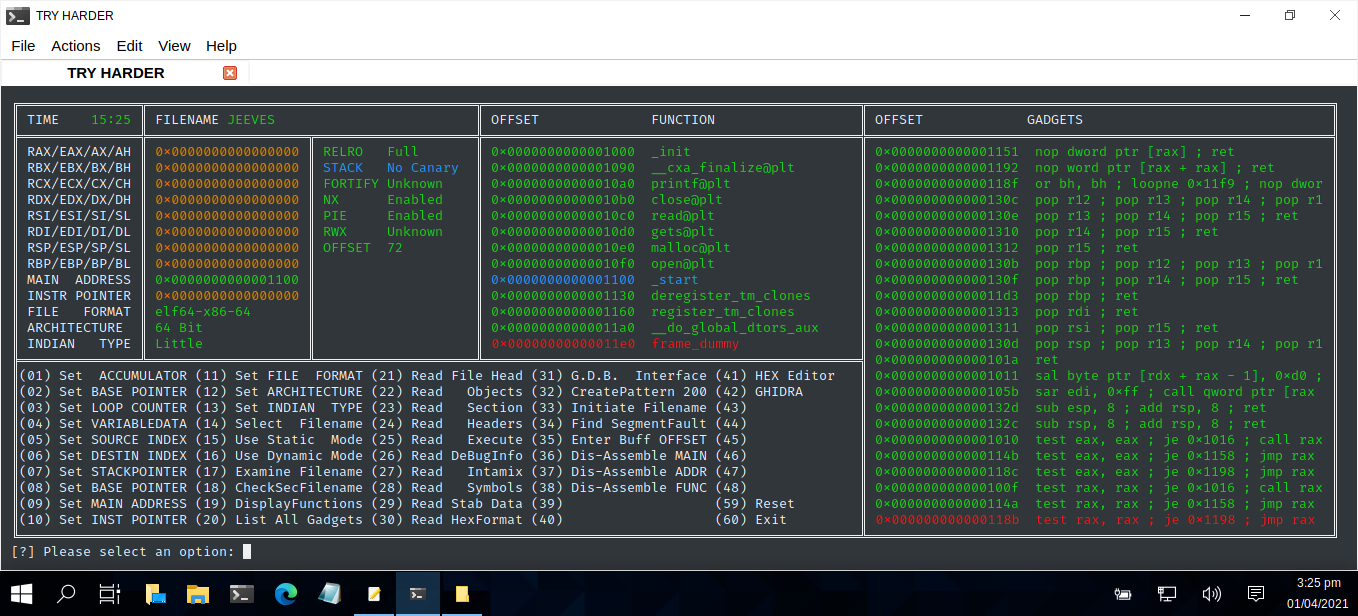
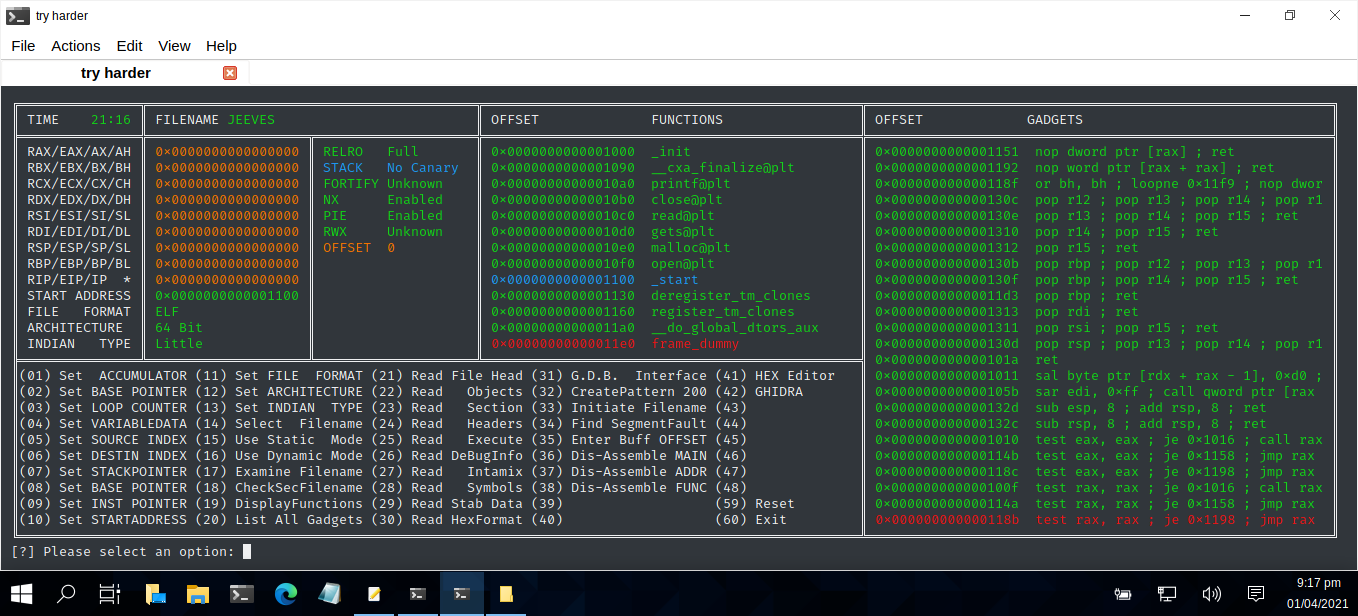
Try harder

diff --git a/BinMaster.py b/BinMaster.py
@@ -17,18 +17,10 @@
 import os
 import sys
 import time
-#import getopt
-#import base64
-#import string
-#import random
-#import socket
-#import hashlib
 import os.path
 import sqlite3
-#import binascii
 import pyfiglet
 import datetime
-#import requests
 import linecache
 
 from termcolor import colored
@@ -195,7 +187,7 @@ def dispMenu():
       print(colored(FIL.upper(),colour7), end=' ')
    else:
       print(colored(FIL.upper(),colour6), end=' ')      
-   print(" " + '\u2551' + (" ")*1 + colored("OFFSET",colour5) + (" ")*14 + colored("FUNCTION",colour5) + (" ")*18 + '\u2551' + (" ")*1 + colored("OFFSET",colour5) + " "*13 + colored("GADGETS",colour5) + (" ")*31 + '\u2551') 
+   print(" " + '\u2551' + (" ")*1 + colored("OFFSET",colour5) + (" ")*14 + colored("FUNCTIONS",colour5) + (" ")*17 + '\u2551' + (" ")*1 + colored("OFFSET",colour5) + " "*13 + colored("GADGETS",colour5) + (" ")*31 + '\u2551') 
    print('\u2560' + ('\u2550')*15 + '\u256C' + ('\u2550')*20 + '\u2566' + ('\u2550')*20 + '\u256C' + ('\u2550')*24 + '\u2550' + ('\u2550')*22 + '\u256C' + ('\u2550')*58 + '\u2563')   
    
    print('\u2551' + " RAX/EAX/AX/AH " + '\u2551', end=' ')
@@ -217,13 +209,11 @@ def dispMenu():
       print(colored(RBX[:COL1],colour7), end=' ')
    else:
       print(colored(RBX[:COL1],colour6), end=' ')
-   print('\u2551', end=' ')
-   
+   print('\u2551', end=' ')   
    if "No Canary" in ST:
       print(colored(ST,'blue'), end=' ')
    else:
-      print(colored(ST ,colourx), end=' ')
-   
+      print(colored(ST ,colourx), end=' ')   
    print('\u2551', end=' ')
    if SRT.rstrip(" ") in ADDR[1]:
       print(colored(ADDR[1],colour3), end=' ')
@@ -287,22 +277,20 @@ def dispMenu():
       print(colored(ADDR[5],colour6), end=' ')   
    print('\u2551', end=' ')
    print(colored(GADD[5],colour6), end=' ')
-   print('\u2551')   
-  
+   print('\u2551')     
+   
    print('\u2551' + " RSP/ESP/SP/SL " + '\u2551', end=' ')
    if RSP[:18] == "0x0000000000000000":
       print(colored(RSP,colour7), end=' ')
    else:
-      print(colored(RSP,colour6), end=' ')
-   
+      print(colored(RSP,colour6), end=' ')   
    print( '\u2551', end=' ')   
    if OFF[:1] == "0":
       print(colored("OFFSET  " + OFF[:5] + "     ",colour7), end=' ')
       print('\u2551', end=' ')
    else:
       print(colored("OFFSET  " + OFF[:5] + "     ",colour6), end=' ')
-      print('\u2551', end=' ')
-            
+      print('\u2551', end=' ')            
    if SRT.rstrip(" ") in ADDR[6]:
       print(colored(ADDR[6],colour3), end=' ')
    else:
@@ -325,11 +313,11 @@ def dispMenu():
    print(colored(GADD[7],colour6), end=' ')
    print('\u2551')   
   
-   print('\u2551' + " MAIN  ADDRESS " + '\u2551', end=' ')
-   if SRT[:18] == "0x0000000000000000":
-      print(colored(SRT,colour7), end=' ')
+   print('\u2551' + " RIP/EIP/IP  * " + '\u2551', end=' ')
+   if INS[:18] == "0x0000000000000000":
+      print(colored(INS,colour7), end=' ')
    else:
-      print(colored(SRT,colour6), end=' ')
+      print(colored(INS,colour6), end=' ')
    print('\u2551' + " " + " "*COL1 + " " +  '\u2551', end=' ')
    if SRT.rstrip(" ") in ADDR[8]:
       print(colored(ADDR[8],colour3), end=' ')
@@ -339,11 +327,11 @@ def dispMenu():
    print(colored(GADD[8],colour6), end=' ')
    print('\u2551')   
  
-   print('\u2551' + " INSTR POINTER " + '\u2551', end=' ')
-   if INS[:18] == "0x0000000000000000":
-      print(colored(INS,colour7), end=' ')
+   print('\u2551' + " START ADDRESS " + '\u2551', end=' ')
+   if SRT[:18] == "0x0000000000000000":
+      print(colored(SRT,colour7), end=' ')
    else:
-      print(colored(INS,colour6), end=' ')
+      print(colored(SRT,colour6), end=' ')
    print('\u2551' + " " + " "*COL1 + " " +  '\u2551', end=' ')
    if SRT.rstrip(" ") in ADDR[9]:
       print(colored(ADDR[9],colour3), end=' ')
@@ -386,8 +374,7 @@ def dispMenu():
       print(colored(IND,colour7), end=' ')
    else:
       print(colored(IND,colour6), end=' ')
-   print('\u2551' + " " + " "*COL1 + " " +  '\u2551', end=' ')
-   
+   print('\u2551' + " " + " "*COL1 + " " +  '\u2551', end=' ')   
    if SRT.rstrip(" ") in ADDR[12]:
       print(colored(ADDR[12],colour3), end=' ')
    else:
@@ -411,8 +398,8 @@ def options():
    print('\u2551' + "(06) Set DESTIN INDEX (16) Use Dynamic Mode (26) Read DeBugInfo (36) Dis-Assemble MAIN (46)              " + '\u2551', end=' '); print(colored(GADD[19],colour6), end=' '); print('\u2551')
    print('\u2551' + "(07) Set STACKPOINTER (17) Examine Filename (27) Read   Intamix (37) Dis-Assemble ADDR (47)              " + '\u2551', end=' '); print(colored(GADD[20],colour6), end=' '); print('\u2551')
    print('\u2551' + "(08) Set BASE POINTER (18) CheckSecFilename (28) Read   Symbols (38) Dis-Assemble FUNC (48)              " + '\u2551', end=' '); print(colored(GADD[21],colour6), end=' '); print('\u2551')
-   print('\u2551' + "(09) Set MAIN ADDRESS (19) DisplayFunctions (29) Read Stab Data (39)                   (59) Reset        " + '\u2551', end=' '); print(colored(GADD[22],colour6), end=' '); print('\u2551')
-   print('\u2551' + "(10) Set INST POINTER (20) List All Gadgets (30) Read HexFormat (40)                   (60) Exit         " + '\u2551', end=' ')
+   print('\u2551' + "(09) Set INST POINTER (19) DisplayFunctions (29) Read Stab Data (39)                   (59) Reset        " + '\u2551', end=' '); print(colored(GADD[22],colour6), end=' '); print('\u2551')
+   print('\u2551' + "(10) Set STARTADDRESS (20) List All Gadgets (30) Read HexFormat (40)                   (60) Exit         " + '\u2551', end=' ')
    if GADD[24] != "":
       print(colored(GADD[23],colour0), end=' '); print('\u2551')   
    else:
@@ -745,34 +732,34 @@ while True:
 # AUTHOR  : Terence Broadbent                                                    
 # CONTRACT: GitHub
 # Version : TRY HARDER                                                             
-# Details : Menu option selected - Start value
+# Details : Menu option selected - Instruction Pointer.
 # Modified: N/A
 # -------------------------------------------------------------------------------------      
       
    if selection =='9':
-      BAK = SRT
-      SRT = input("[?] Please enter start value: ")
-      if SRT != "":
-         SRT = spacePadding(SRT,COL1)
+      BAK = INS
+      INS = input("[?] Please enter extended instruction pointer value: ")
+      if INS != "":
+         INS = spacePadding(INS,COL1)
       else:
-            SRT = BAK
+            INS = BAK
       prompt()  
       
 # ------------------------------------------------------------------------------------- 
 # AUTHOR  : Terence Broadbent                                                    
 # CONTRACT: GitHub
 # Version : TRY HARDER                                                             
-# Details : Menu option selected - Instruction Pointer.
+# Details : Menu option selected - Start value
 # Modified: N/A
 # -------------------------------------------------------------------------------------      
       
-   if selection =='13':
-      BAK = INS
-      INS = input("[?] Please enter instruction pointer value: ")
-      if INS != "":
-         INS = spacePadding(INS,COL1)
+   if selection =='10':
+      BAK = SRT
+      SRT = input("[?] Please enter start value: ")
+      if SRT != "":
+         SRT = spacePadding(SRT,COL1)
       else:
-            INS = BAK
+            SRT = BAK
       prompt()   
       
 # ------------------------------------------------------------------------------------- 
@@ -905,8 +892,9 @@ while True:
          catsFile("file.tmp")                  
          binary = linecache.getline("file.tmp", 1)
          if "ELF" in binary:
+            COM = spacePadding("ELF", COL1)
             print("Linux binary file...")
-         if "64-bit" in binary:
+         if "64-bit" in binary: #ELF 64-bit
             ARC = "64 Bit"
             print(ARC + " architecture...")  
             ARC = spacePadding(ARC, COL1)            
@@ -1042,13 +1030,15 @@ while True:
          parsFile("headers.tmp")
          catsFile("headers.tmp")
          
-         count = lineCount("headers.tmp")
-         SRT = linecache.getline("headers.tmp", count).rstrip("\n")	# START ADDRESS
-         SRT = SRT.split(" ")[-1]
-         SRT = spacePadding(SRT, COL1)   
-         COM = linecache.getline("headers.tmp", 1).rstrip("\n")      	# FILE FORMAT
-         COM = COM.split(" ")[-1]
-         COM = spacePadding(COM, COL1)
+         with open("headers.tmp","r") as read:
+            for line in read:
+               data = line
+               if "i386:x86-64" in data:
+                  ARC = spacePadding("64 Bit", COL1)
+               if "start address" in data:
+                  SRT = spacePadding(data.split(" ")[2], COL1)
+               if "elf" in data:
+                  COM = spacePadding("ELF", COL1)
       prompt()   
    
 # ------------------------------------------------------------------------------------- 

diff --git a/README.md b/README.md
@@ -21,7 +21,7 @@ Usage: python3 BinMaster.py
 
 | LANGUAGE  | FILENAME     | MD5 Hash                         | DESCRIPTION    | VERSION    |
 |------     |------        | -------                          | ------         | ----       |
-| python3   | BinMAster.py | bb9a203ee276c8576ff5a03541b20da3 | Command Centre | Try Harder |
+| python3   | BinMAster.py | a3e2b4b57c8039ef768a70ac605468aa | Command Centre | Try Harder |
 
 
 A python script file to forensically examine binary files for buffer-overflows.
